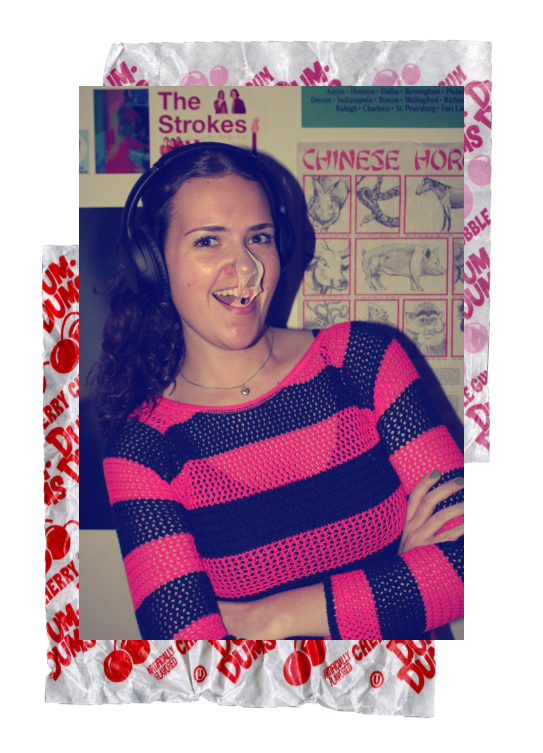
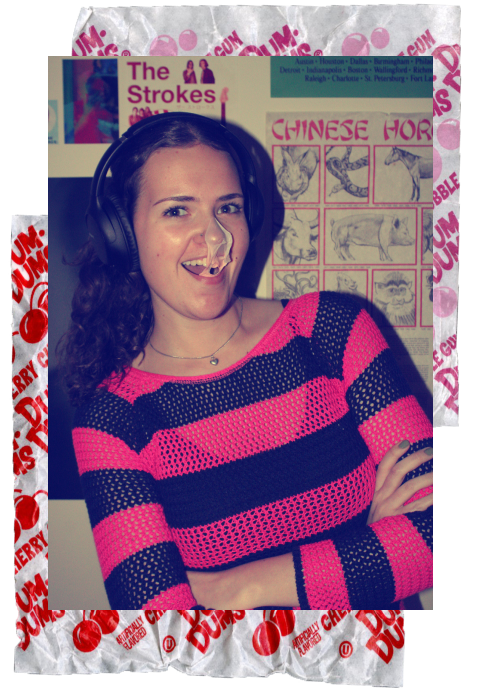
update

diff --git a/about.html b/about.html
@@ -48,7 +48,10 @@
             </section>
             <section class="container">
                 <img src="img/meredithpritchard.png" alt="meredith pritchard" class="me">
-                <p class="about">I was born and raised in Richmond, Virginia. I’m here in San Francisco, far from home, studying advertising and graphic design at USF, and I’m planning to graduate in Spring of 2025. When I’m not at the computer, you can find me teaching swim lessons, wandering aimlessly around Golden Gate Park, or browsing for funky t-shirts at the nearest thrift store. From a young age, I’ve enjoyed exploring different creative mediums and outlets such as drawing, painting, collaging, photography, and jewelry making, to name a few. I envisioned myself becoming a painter or photographer for as long as I can remember. Only recently did I discover the joy of creating in a digital space. With that being said, I try to incorporate my fine arts background in my work whenever possible. From my daily runs outside, to the covers of my favorite albums, to my monthly scrapbook pages, I take inspiration from all aspects of my life, which explains my approach to design as I try not to tie myself down to one distinct style or subject matter. So I guess this makes me a jack of all trades, master of fun.</p>
+                <div class="abouttext">
+                    <p class="about1">I was born and raised in Richmond, Virginia. I’m here in San Francisco, far from home, studying advertising and graphic design at USF, and I’m planning to graduate in Spring of 2025. When I’m not at the computer, you can find me teaching swim lessons, wandering aimlessly around Golden Gate Park, or browsing for funky t-shirts at the nearest thrift store.</p>
+                    <p class="about2">From a young age, I’ve enjoyed exploring different creative mediums and outlets such as drawing, painting, collaging, photography, and jewelry making, to name a few. I envisioned myself becoming a painter or photographer for as long as I can remember. Only recently did I discover the joy of creating in a digital space. With that being said, I try to incorporate my fine arts background in my work whenever possible. From my daily runs outside, to the covers of my favorite albums, to my monthly scrapbook pages, I take inspiration from all aspects of my life, which explains my approach to design as I try not to tie myself down to one distinct style or subject matter. So I guess this makes me a jack of all trades, master of fun.</p>
+                </div>
             </section>
         </main>
         <footer>

diff --git a/css/style.css b/css/style.css
@@ -55,7 +55,7 @@ main {
 }
 
 section {
-    margin: 5rem auto;
+    margin: 3rem auto;
     display: grid;
     grid-template-columns: repeat(12, 1fr);
     grid-column-gap: 1.5rem;
@@ -174,14 +174,31 @@ footer {
 }
 
 .container{
-    grid-template-columns: 1fr 1fr;
-    max-width: 71rem;
+    grid-template-columns: 24rem 1fr;
+    max-width: 60rem;
+    grid-column-gap: 1.5rem;
 }
 .container img{
     grid-column: 1/2;
+    max-width: 75%;
+    align-content: center;
+    justify-self: center;
 }
-.about{
+.abouttext{
+    grid-template-rows: 1fr 1fr;
+    align-self: center;
+}
+
+.about1{
     grid-column: 2/2;
+    grid-row: 1/2;
+    text-align: left;
+    align-self: center;
+}
+
+.about1{
+    grid-column: 2/2;
+    grid-row: 2/2;
     text-align: left;
     align-self: center;
 }
